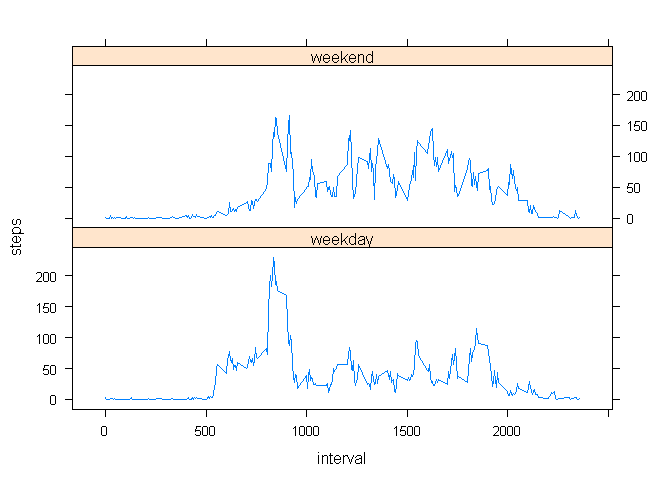
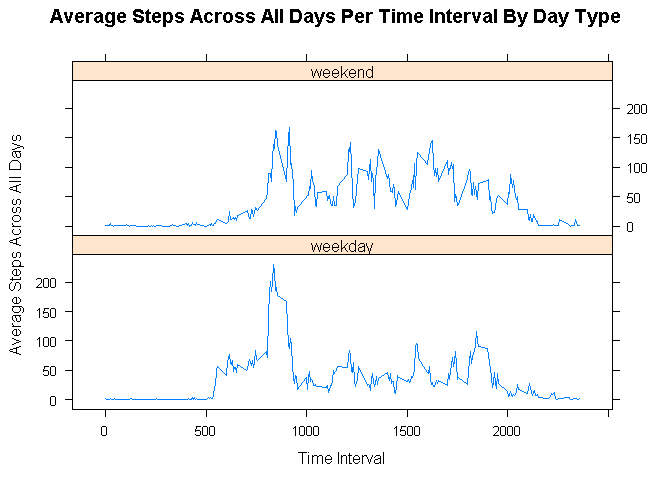
Needed to change some of the figure titles and labels

diff --git a/PA1_template.html b/PA1_template.html
@@ -127,8 +127,8 @@ img {
   meltedenhanceddata &lt;- melt(enhanceddata, id=c(&quot;date&quot;), measure = &quot;steps&quot;)
   castedenhanceddata &lt;- dcast(meltedenhanceddata, date ~ variable, sum)
   
-  hist(castedenhanceddata$steps, col=&quot;cyan&quot;,main = &quot;Total Steps Per Day Histogram&quot;,xlab = &quot;Total Steps Per Day&quot;)</code></pre>
[1 lines of base64/hex data omitted]
+  hist(castedenhanceddata$steps, col=&quot;cyan&quot;,main = &quot;Total Steps Per Day With Filled In Missing Data Histogram&quot;,xlab = &quot;Total Steps Per Day&quot;)</code></pre>
[1 lines of base64/hex data omitted]
 </div>
 <div id="average-total-number-of-steps-taken-per-day-with-filled-missing-data" class="section level3">
 <h3>Average total number of steps taken per day with filled missing data</h3>
@@ -170,8 +170,8 @@ img {
   meltedtypedata &lt;- melt(enhanceddata, id=c(&quot;interval&quot;,&quot;daytype&quot;), measure = &quot;steps&quot;)
   castedtypedata &lt;- dcast(meltedtypedata, interval + daytype ~ variable, mean)
   
-  xyplot(steps ~ interval | daytype,data = castedtypedata,type = &quot;l&quot;,layout = c(1,2))</code></pre>
[1 lines of base64/hex data omitted]
+  xyplot(steps ~ interval | daytype,data = castedtypedata,type = &quot;l&quot;,layout = c(1,2),xlab = &quot;Time Interval&quot;, ylab = &quot;Average Steps Across All Days&quot;, main = &quot;Average Steps Across All Days Per Time Interval By Day Type&quot;)</code></pre>
[1 lines of base64/hex data omitted]
 <p>During the weekdays, there is a large spike in the morning and a smaller spike in the afternoon, likely before and after work.</p>
 <p>During the weekends, there are spikes and valleys throughout the day. The highest number of steps is still in the morning though.</p>
 </div>

diff --git a/PA1_template.md b/PA1_template.md
@@ -87,7 +87,7 @@
   meltedenhanceddata <- melt(enhanceddata, id=c("date"), measure = "steps")
   castedenhanceddata <- dcast(meltedenhanceddata, date ~ variable, sum)
   
-  hist(castedenhanceddata$steps, col="cyan",main = "Total Steps Per Day Histogram",xlab = "Total Steps Per Day")
+  hist(castedenhanceddata$steps, col="cyan",main = "Total Steps Per Day With Filled In Missing Data Histogram",xlab = "Total Steps Per Day")
 ```
 
 ![](PA1_template_files/figure-html/unnamed-chunk-9-1.png) 
@@ -138,7 +138,7 @@ The mean has not changed since averages were used to fill the missing data. But 
   meltedtypedata <- melt(enhanceddata, id=c("interval","daytype"), measure = "steps")
   castedtypedata <- dcast(meltedtypedata, interval + daytype ~ variable, mean)
   
-  xyplot(steps ~ interval | daytype,data = castedtypedata,type = "l",layout = c(1,2))
+  xyplot(steps ~ interval | daytype,data = castedtypedata,type = "l",layout = c(1,2),xlab = "Time Interval", ylab = "Average Steps Across All Days", main = "Average Steps Across All Days Per Time Interval By Day Type")
 ```
 
 ![](PA1_template_files/figure-html/unnamed-chunk-12-1.png) 
